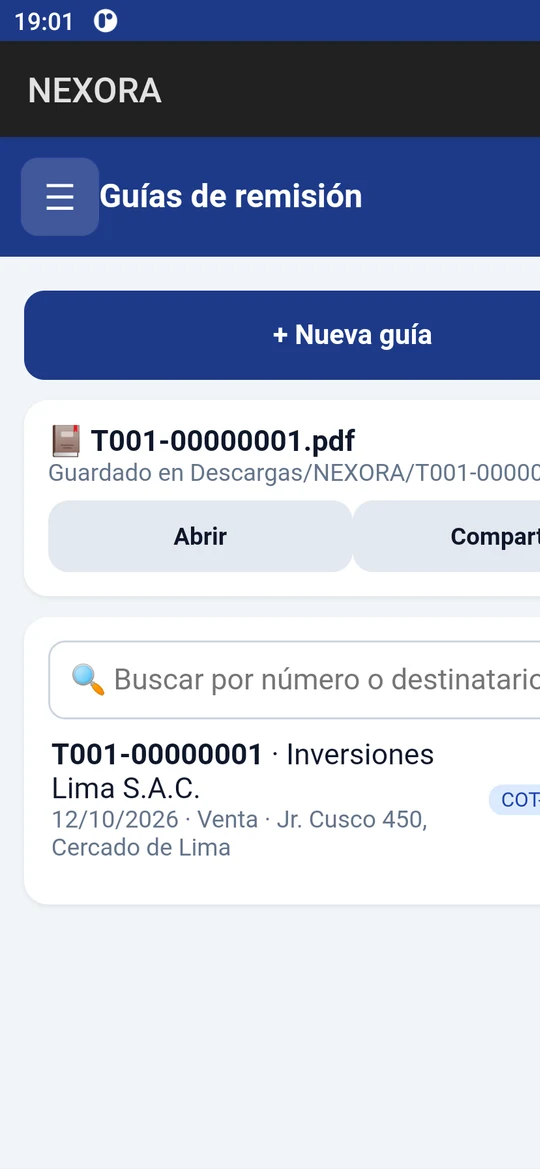
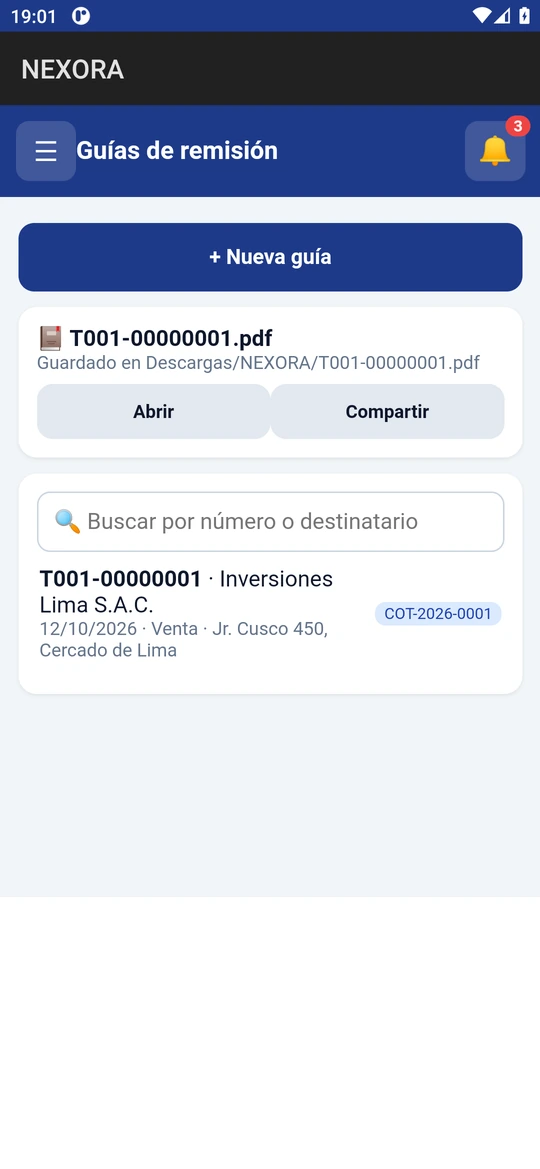
revert(site): restore NEXORA fit shots (no zoom)

diff --git a/index.html b/index.html
@@ -22,7 +22,7 @@
   <p class="lead">PROCESA, NEXORA y CortoStudio: apps Android en español para llevar tu planta, tu negocio y tus ideas un paso más allá.</p>
   <p class="cta"><a class="btn" href="#apps">Ver las apps</a><a class="more" href="#contacto">Escríbenos</a></p>
   <div class="stage">
-    <figure class="phone back"><img src="assets/img/nexora-cotizacion.webp?v=5" width="540" height="1169" alt="NEXORA: lista de cotizaciones"></figure>
+    <figure class="phone back"><img src="assets/img/nexora-cotizacion.webp?v=6" width="540" height="1169" alt="NEXORA: lista de cotizaciones"></figure>
     <figure class="phone front"><img src="assets/img/procesa-diagrama.webp" width="540" height="1169" alt="PROCESA: diagrama de flujo HACCP de una mermelada, con sus puntos críticos de control" fetchpriority="high"></figure>
     <figure class="phone far"><img src="assets/img/corto-inicio.webp" width="540" height="1169" alt="CortoStudio: editar un cortometraje, con título, género y estilo visual"></figure>
   </div>
@@ -60,9 +60,9 @@
     <p class="meta">App para Android</p>
   </div>
   <div class="show rev">
-    <div class="shot"><figure class="phone "><img src="assets/img/nexora-cotizacion.webp?v=5" width="540" height="1169" alt="NEXORA: lista de cotizaciones" loading="lazy"></figure></div>
+    <div class="shot"><figure class="phone "><img src="assets/img/nexora-cotizacion.webp?v=6" width="540" height="1169" alt="NEXORA: lista de cotizaciones" loading="lazy"></figure></div>
     <div class="list">
-      <ul class="feats" aria-label="Funciones de NEXORA: toca una marcada para ver su pantalla"><li><button type="button" class="feat" data-shot="assets/img/nexora-cotizacion.webp?v=5" data-alt="NEXORA: lista de cotizaciones" aria-pressed="true">Cotizaciones en PDF</button></li><li><span class="feat-plain">Facturas y boletas, con facturación electrónica SUNAT</span></li><li><button type="button" class="feat" data-shot="assets/img/nexora-guia.webp?v=5" data-alt="NEXORA: guía de remisión" aria-pressed="false">Guías de remisión</button></li><li><button type="button" class="feat" data-shot="assets/img/nexora-cxc.webp?v=5" data-alt="NEXORA: cuentas por cobrar de clientes" aria-pressed="false">Clientes y cuentas por cobrar</button></li><li><span class="feat-plain">Inventario con kardex</span></li><li><button type="button" class="feat" data-shot="assets/img/nexora-saldos.webp?v=5" data-alt="NEXORA: caja y saldos por cuenta bancaria" aria-pressed="false">Caja y cuentas bancarias</button></li><li><span class="feat-plain">Pagos recibidos por Yape y Plin</span></li><li><span class="feat-plain">Reportes mensuales en PDF y Excel, e impresión Bluetooth</span></li></ul>
+      <ul class="feats" aria-label="Funciones de NEXORA: toca una marcada para ver su pantalla"><li><button type="button" class="feat" data-shot="assets/img/nexora-cotizacion.webp?v=6" data-alt="NEXORA: lista de cotizaciones" aria-pressed="true">Cotizaciones en PDF</button></li><li><span class="feat-plain">Facturas y boletas, con facturación electrónica SUNAT</span></li><li><button type="button" class="feat" data-shot="assets/img/nexora-guia.webp?v=6" data-alt="NEXORA: guía de remisión" aria-pressed="false">Guías de remisión</button></li><li><button type="button" class="feat" data-shot="assets/img/nexora-cxc.webp?v=6" data-alt="NEXORA: cuentas por cobrar de clientes" aria-pressed="false">Clientes y cuentas por cobrar</button></li><li><span class="feat-plain">Inventario con kardex</span></li><li><button type="button" class="feat" data-shot="assets/img/nexora-saldos.webp?v=6" data-alt="NEXORA: caja y saldos por cuenta bancaria" aria-pressed="false">Caja y cuentas bancarias</button></li><li><span class="feat-plain">Pagos recibidos por Yape y Plin</span></li><li><span class="feat-plain">Reportes mensuales en PDF y Excel, e impresión Bluetooth</span></li></ul>
       <p class="note">Las capturas muestran datos de ejemplo. <a href="privacidad-nexora.html">Política de privacidad de NEXORA</a></p>
     </div>
   </div>
